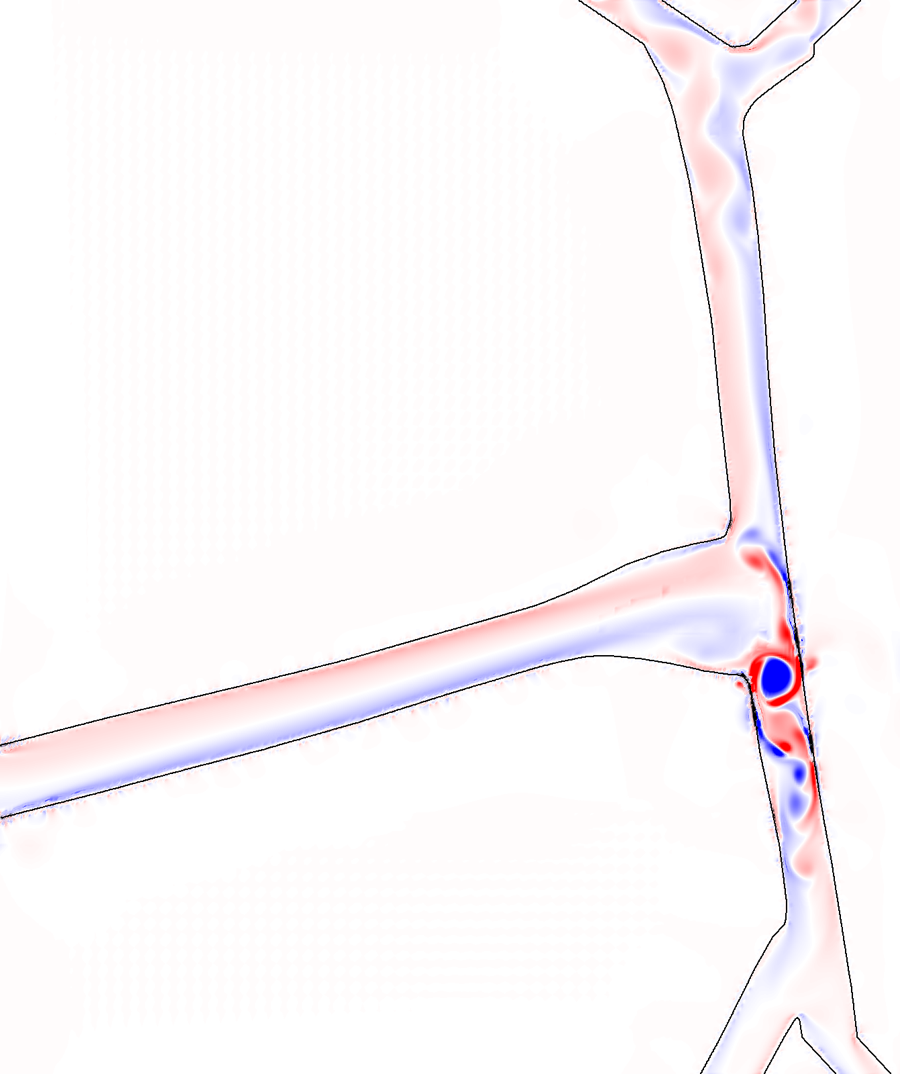
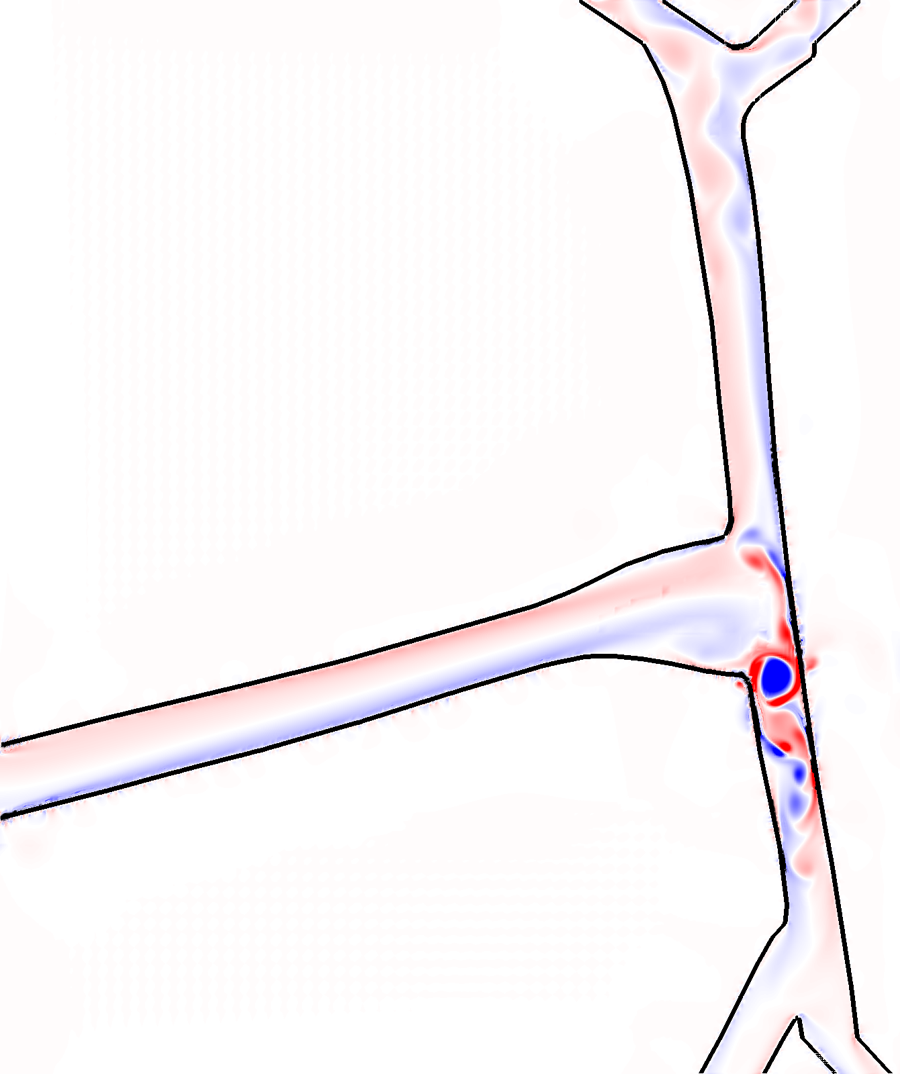
IB/13: pictures with the walls drawn as the spring mesh in thick lines
Both cases rerun and re-rendered with the Mesh plot of <case>_mesh (the
spring edges) at line width 6 instead of 2-pixel points, so the walls read
as continuous thick boundaries. vessel_walls.py gains a --layers option
(extra rows of target points with springs across them); the shipped files
use the default single row.

diff --git a/examples/IB/13-carotid-bifurcation/vessel_walls.py b/examples/IB/13-carotid-bifurcation/vessel_walls.py
@@ -34,7 +34,8 @@ ap.add_argument("--fine", type=float, default=1.0, help="resolution factor: 1 = 
 ap.add_argument("--dxc", type=float, default=0.125, help="coarse cell size (cm) at --fine 1; the fine level is 4 times finer")
 ap.add_argument("--DT", type=float, default=1.0e-4, help="the time step of the input file (s); the target stiffness is sized for it")
 ap.add_argument("--kappa", type=float, default=None, help="target stiffness per point; default 0.2*RHO*DX^2/DT^2 with RHO 1.05")
-ap.add_argument("--kappa_spring", type=float, default=None, help="stiffness of the springs between neighbouring wall points; default half the target stiffness")
+ap.add_argument("--kappa_spring", type=float, default=None, help="stiffness of the springs between neighbouring wall points; default a quarter of the target stiffness (half with a single layer)")
+ap.add_argument("--layers", type=int, default=1, help="rows of points across the wall, one point spacing apart, from the lumen outward (1 = a single row, the shipped files; 5 = a wall two fine cells thick, joined by springs along, across and diagonally)")
 ap.add_argument("--margin", type=float, default=0.6, help="clear space (cm) between the vessel and the walls of the box on the closed sides")
 args = ap.parse_args()
 C = CASES[args.case]
@@ -184,18 +185,41 @@ def resample(a, ds):
     m = max(2, int(round(sarc[-1] / ds)) + 1)
     t = np.linspace(0, sarc[-1], m)
     return np.column_stack([np.interp(t, sarc, a[:, 0]), np.interp(t, sarc, a[:, 1])]), sarc[-1]
-walls = []
+# The wall is LAYERS rows of points: the lumen row, then rows one spacing further out along the wall's outward
+# normal (away from the lumen), so that the wall is a band LAYERS*ds thick with springs along, across and
+# diagonally between the rows: a connected elastic sheet rather than a single leaky row.
+ccw = (0.5 * (np.dot(P[:, 0], np.roll(P[:, 1], -1)) - np.dot(P[:, 1], np.roll(P[:, 0], -1)))) > 0   # loop orientation
+walls, rows_of = [], []
 for k, a in enumerate(arcs):
     r, L = resample(a, ds)
-    walls.append(r)
-    print("wall %d: %.2f cm, %d points" % (k, L, len(r)))
-X = np.vstack(walls)
+    t = np.gradient(r, axis=0); t /= np.linalg.norm(t, axis=1)[:, None]
+    nrm = np.column_stack([t[:, 1], -t[:, 0]]) if ccw else np.column_stack([-t[:, 1], t[:, 0]])   # outward for the walk's direction
+    rows = [r + j * ds * nrm for j in range(args.layers)]
+    walls.extend(rows); rows_of.append(rows)
+    print("wall %d: %.2f cm, %d points per row, %d rows" % (k, L, len(r), args.layers))
+# an outer row of a wall that meets a face at an angle runs past the face: those points are dropped (not clipped:
+# clipping piled them up on the face and the horse case blew up there at t = 0.11 s), and the springs below skip them
+ids_of = []     # per wall, per row: the global index of each point, or -1 where it was dropped
+pts = []
+for rows in rows_of:
+    ids_rows = []
+    for row in rows:
+        ids = []
+        for p in row:
+            if 0.5 * ds <= p[0] <= LX - 0.5 * ds and 0.5 * ds <= p[1] <= LY - 0.5 * ds:
+                ids.append(len(pts)); pts.append(p)
+            else:
+                ids.append(-1)
+        ids_rows.append(ids)
+    ids_of.append(ids_rows)
+X = np.array(pts)
+print("dropped %d outer-row points that fell outside the box" % (sum(len(r) for rows in rows_of for r in rows) - len(X)))
 r = X / DX
 on_face = np.abs(r - np.round(r)) < 1e-7
 X[on_face] += 1e-3 * DX
 RHO = 1.05
 kappa = args.kappa if args.kappa is not None else 0.2 * RHO * DX ** 2 / args.DT ** 2
-kappa_spring = args.kappa_spring if args.kappa_spring is not None else 0.5 * kappa
+kappa_spring = args.kappa_spring if args.kappa_spring is not None else (0.25 if args.layers > 1 else 0.5) * kappa
 name = args.case
 with open(name + ".vertex", "w", newline="\n") as f:
     f.write("%d\n" % len(X))
@@ -205,19 +229,27 @@ with open(name + ".target", "w", newline="\n") as f:
     f.write("%d\n" % len(X))
     for i in range(len(X)):
         f.write("%d %1.16e\n" % (i, kappa))
-# springs between neighbouring points along each wall (not across walls): they keep the rows of points from
-# stretching, bunching or opening gaps that fluid could leak through. Rest length = the spacing as written.
+# springs: along each row, across neighbouring rows, and on both diagonals between them (shear stiffness); never
+# between different walls. Rest length = the distance as written.
 springs = []
-off = 0
-for w in walls:
-    for i in range(len(w) - 1):
-        springs.append((off + i, off + i + 1, float(np.linalg.norm(X[off + i + 1] - X[off + i]))))
-    off += len(w)
+def link(i, j):
+    if i >= 0 and j >= 0:
+        springs.append((i, j, float(np.linalg.norm(X[j] - X[i]))))
+for ids_rows in ids_of:
+    n_r, n_l = len(ids_rows[0]), len(ids_rows)
+    for j in range(n_l):
+        for i in range(n_r - 1):
+            link(ids_rows[j][i], ids_rows[j][i + 1])
+        if j + 1 < n_l:
+            for i in range(n_r):
+                link(ids_rows[j][i], ids_rows[j + 1][i])
+                if i + 1 < n_r:
+                    link(ids_rows[j][i], ids_rows[j + 1][i + 1]); link(ids_rows[j][i + 1], ids_rows[j + 1][i])
 with open(name + ".spring", "w", newline="\n") as f:
     f.write("%d\n" % len(springs))
     for i, j, L in springs:
         f.write("%d %d %1.16e %1.16e\n" % (i, j, kappa_spring, L))
-print("springs: %d along the walls, stiffness %.1f (targets %.1f); %.1f target points per fine cell" % (len(springs), kappa_spring, kappa, DX / ds))
+print("springs: %d (along, across and diagonal), stiffness %.1f (targets %.1f); %d rows, wall %.3f cm thick; %.1f points per fine cell along the wall" % (len(springs), kappa_spring, kappa, args.layers, (args.layers - 1) * ds, DX / ds))
 inlet = bands[(0, "<")][0]
 geom = {"case": name, "LX": LX, "LY": LY, "NX": NX, "NY": NY, "DX_coarse": dxc, "DX": DX, "ds": ds, "D_inlet": D_in,
         "n_points": len(X), "n_springs": len(springs), "kappa_file": kappa, "kappa_spring": kappa_spring,
